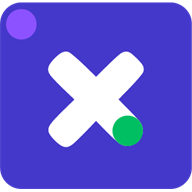
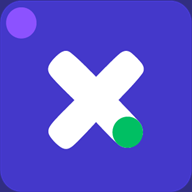
Ledrix Super Admin PWA

diff --git a/public/super-admin/sw.js b/public/super-admin/sw.js
@@ -1,8 +1,8 @@
 /* Ledrix Super Admin PWA — network-first; does not change app behavior. */
-const CACHE = 'ledrix-sa-pwa-v1';
+const CACHE = 'ledrix-sa-pwa-v3';
 const PRECACHE = [
-  '/super-admin/icon-192.png',
-  '/super-admin/icon-512.png',
+  '/super-admin/icon-192.png?v=3',
+  '/super-admin/icon-512.png?v=3',
   '/super-admin/manifest.webmanifest',
 ];
 
@@ -28,14 +28,19 @@ self.addEventListener('fetch', (event) => {
     return;
   }
 
-  // Cache-first only for PWA static assets under /super-admin/
+  // Network-first for icons/manifest so favicon updates are not stuck on the old L tile.
   if (
     url.pathname.startsWith('/super-admin/icon-') ||
-    url.pathname.endsWith('/manifest.webmanifest') ||
-    url.pathname.endsWith('/sw.js')
+    url.pathname.endsWith('/manifest.webmanifest')
   ) {
     event.respondWith(
-      caches.match(event.request).then((cached) => cached || fetch(event.request))
+      fetch(event.request)
+        .then((response) => {
+          const copy = response.clone();
+          caches.open(CACHE).then((cache) => cache.put(event.request, copy));
+          return response;
+        })
+        .catch(() => caches.match(event.request))
     );
   }
 });

diff --git a/public/super-admin/pwa-register.js b/public/super-admin/pwa-register.js
@@ -8,7 +8,7 @@
   }
 
   window.addEventListener('load', function () {
-    navigator.serviceWorker.register('/super-admin/sw.js', { scope: '/super-admin/' }).catch(function () {
+    navigator.serviceWorker.register('/super-admin/sw.js?v=3', { scope: '/super-admin/' }).catch(function () {
       // Ignore registration failures (HTTP local, unsupported, etc.)
     });
   });

diff --git a/resources/views/central/layout/layout.blade.php b/resources/views/central/layout/layout.blade.php
@@ -12,8 +12,8 @@
     <meta name="apple-mobile-web-app-capable" content="yes">
     <meta name="apple-mobile-web-app-status-bar-style" content="black-translucent">
     <meta name="apple-mobile-web-app-title" content="Ledrix SA">
-    <link rel="manifest" href="{{ asset('super-admin/manifest.webmanifest') }}">
-    <link rel="apple-touch-icon" href="{{ asset('super-admin/icon-192.png') }}">
+    <link rel="manifest" href="{{ asset('super-admin/manifest.webmanifest') }}?v=3">
+    <link rel="apple-touch-icon" href="{{ asset('super-admin/icon-192.png') }}?v=3">
     <link rel="icon" href="{{ asset(config('branding.fav-icon')) }}">
     <link href="https://cdn.jsdelivr.net/npm/bootstrap@5.3.2/dist/css/bootstrap.min.css" rel="stylesheet">
     <link rel="stylesheet" href="https://cdn.jsdelivr.net/npm/bootstrap-icons@1.11.3/font/bootstrap-icons.min.css">

diff --git a/resources/views/central/layout/auth.blade.php b/resources/views/central/layout/auth.blade.php
@@ -10,8 +10,8 @@
     <meta name="apple-mobile-web-app-capable" content="yes">
     <meta name="apple-mobile-web-app-status-bar-style" content="black-translucent">
     <meta name="apple-mobile-web-app-title" content="Ledrix SA">
-    <link rel="manifest" href="{{ asset('super-admin/manifest.webmanifest') }}">
-    <link rel="apple-touch-icon" href="{{ asset('super-admin/icon-192.png') }}">
+    <link rel="manifest" href="{{ asset('super-admin/manifest.webmanifest') }}?v=3">
+    <link rel="apple-touch-icon" href="{{ asset('super-admin/icon-192.png') }}?v=3">
     <link rel="icon" href="{{ asset(config('branding.fav-icon')) }}">
     <link href="https://cdn.jsdelivr.net/npm/bootstrap@5.3.2/dist/css/bootstrap.min.css" rel="stylesheet">
     <link href="https://cdnjs.cloudflare.com/ajax/libs/toastr.js/2.0.1/css/toastr.css" rel="stylesheet">
